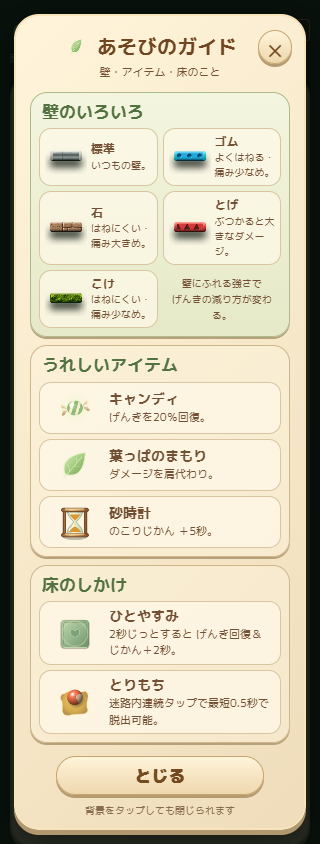
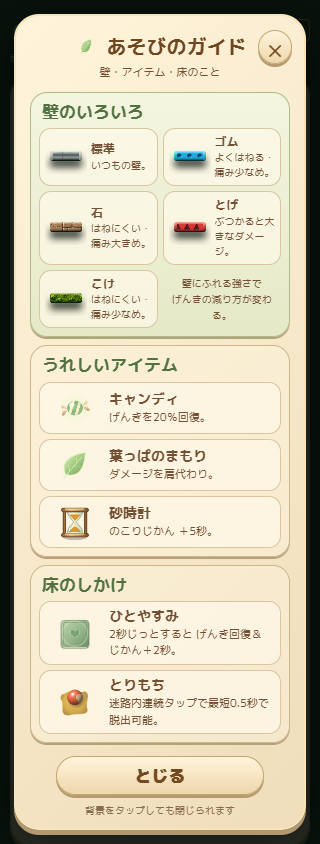
fix(T-235): ガイドの葉っぱとタイトルを中央揃え

Changed region(s): [[0.3125, 0.0308, 0.7812, 0.0616], [0.2188, 0.0308, 0.2812, 0.0616]]

diff --git a/style.css b/style.css
@@ -385,7 +385,7 @@ body.guide-open{overflow:hidden}
 .play-guide{box-sizing:border-box;width:calc(100% - 28px);max-width:520px;max-height:calc(100dvh - 28px);padding:14px 14px 10px;margin:auto;overflow:auto;overscroll-behavior:contain;color:#735033;background:linear-gradient(135deg,#fff4da,#efddbb);border:2px solid #f8e4b9;border-radius:25px;box-shadow:0 5px 0 #b29870,0 12px 40px #0008;font-family:var(--sans)}
 .play-guide::backdrop{background:#07100bd9}
 .guide-heading{position:relative;text-align:center;margin:0 0 10px;padding:0 34px;border:0;display:block}
-.guide-heading h2{font-size:20px;margin:0;color:#704620}.guide-heading h2 span{color:#6b9552}.guide-heading p{font-size:11px;margin:2px 0 0}
+.guide-heading h2{justify-content:center;font-size:20px;margin:0;color:#704620}.guide-heading h2 span{color:#6b9552}.guide-heading p{font-size:11px;margin:2px 0 0}
 .play-guide button{color:#73491e;border:1px solid #c6a570;background:linear-gradient(#fff4da,#eed7ad);box-shadow:0 3px 0 #b69a70;font-family:inherit}
 .play-guide .guide-x{position:absolute;right:-2px;top:0;width:34px;height:34px;min-height:34px;padding:0;border-radius:50%;font-size:24px}
 .guide-group{border:1px solid #ceb58c;border-radius:17px;background:#fff8e754;padding:8px;margin-top:8px;box-shadow:0 2px 0 #b7a17a}

diff --git a/index.html b/index.html
@@ -23,7 +23,7 @@
         <span class="brand-word">Corogalism</span>
       </h1>
       <p class="brand-tagline">A SMALL MAZE<br>A BIG FEELING</p>
-      <span class="badge">v0.4.5</span>
+      <span class="badge">v0.4.6</span>
       </div>
       <p class="sub" id="dev-note">開発中の技術検証です（フェーズ2）</p>
     </div>

diff --git a/precache.js b/precache.js
@@ -1,4 +1,4 @@
-self.PRECACHE_VERSION = '831d11ded3eeaa26';
+self.PRECACHE_VERSION = 'eb6d798c53e2a41c';
 self.PRECACHE_FILES = [
   "assets/audio/bgm.wav",
   "assets/audio/rolling-loop.wav",

diff --git a/docs/play-guide.md b/docs/play-guide.md
@@ -6,3 +6,7 @@
 とりもち本文は「迷路内連続タップで最短0.5秒で脱出可能。」で確定。自然脱出時間・本体トントンの説明は省略。
 とりもちの文章が収まる高さを基準にひとやすみカードも等高とし、不要な大きなカード・余白は作らず追加要素の余地を残す。
 物理、脱出条件、記録、音の仕様は変更しない。
+
+## T-235 v0.4.6
+
+共通h2がdisplay:flexのためtext-align:centerだけではタイトルが中央になっていなかった。ガイド見出しへjustify-content:centerを指定し、葉っぱとタイトルを一体で中央に配置。
